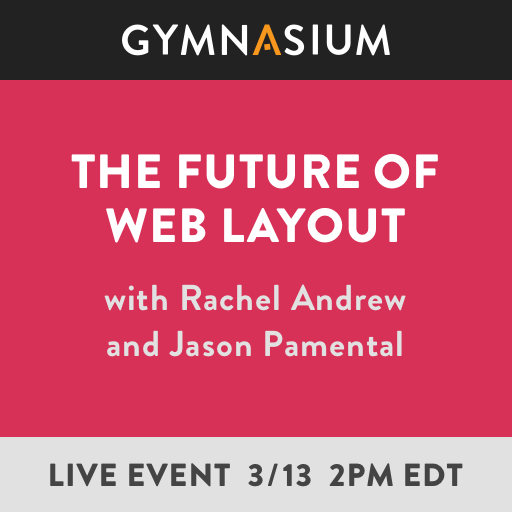
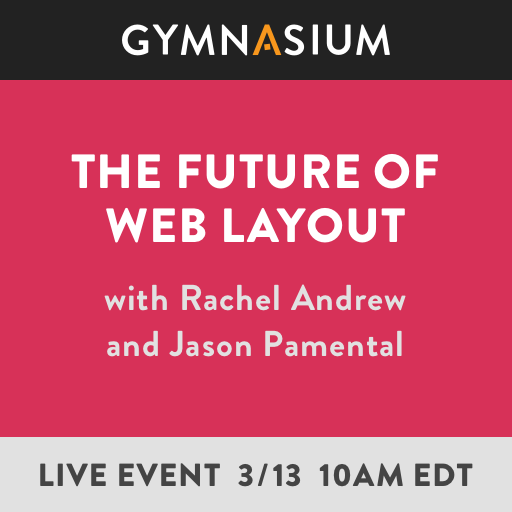
Update time and time zone - spring forward!

Changed region(s): [[0.0625, 0.9062, 0.9375, 0.9688]]

diff --git a/_events/2018-02-07-future-of-layout.md b/_events/2018-02-07-future-of-layout.md
@@ -8,7 +8,7 @@
   collection: events
   date: 2018-02-05
   event_date: 2018-03-13
-  event_time: "10AM EST" # Edit this
+  event_time: "10AM EDT"
   event_ogimage: future-of-web-layout-registration-og.png
   recording_ogimage: future-of-web-layout-recording-og.png
   host: josborn
